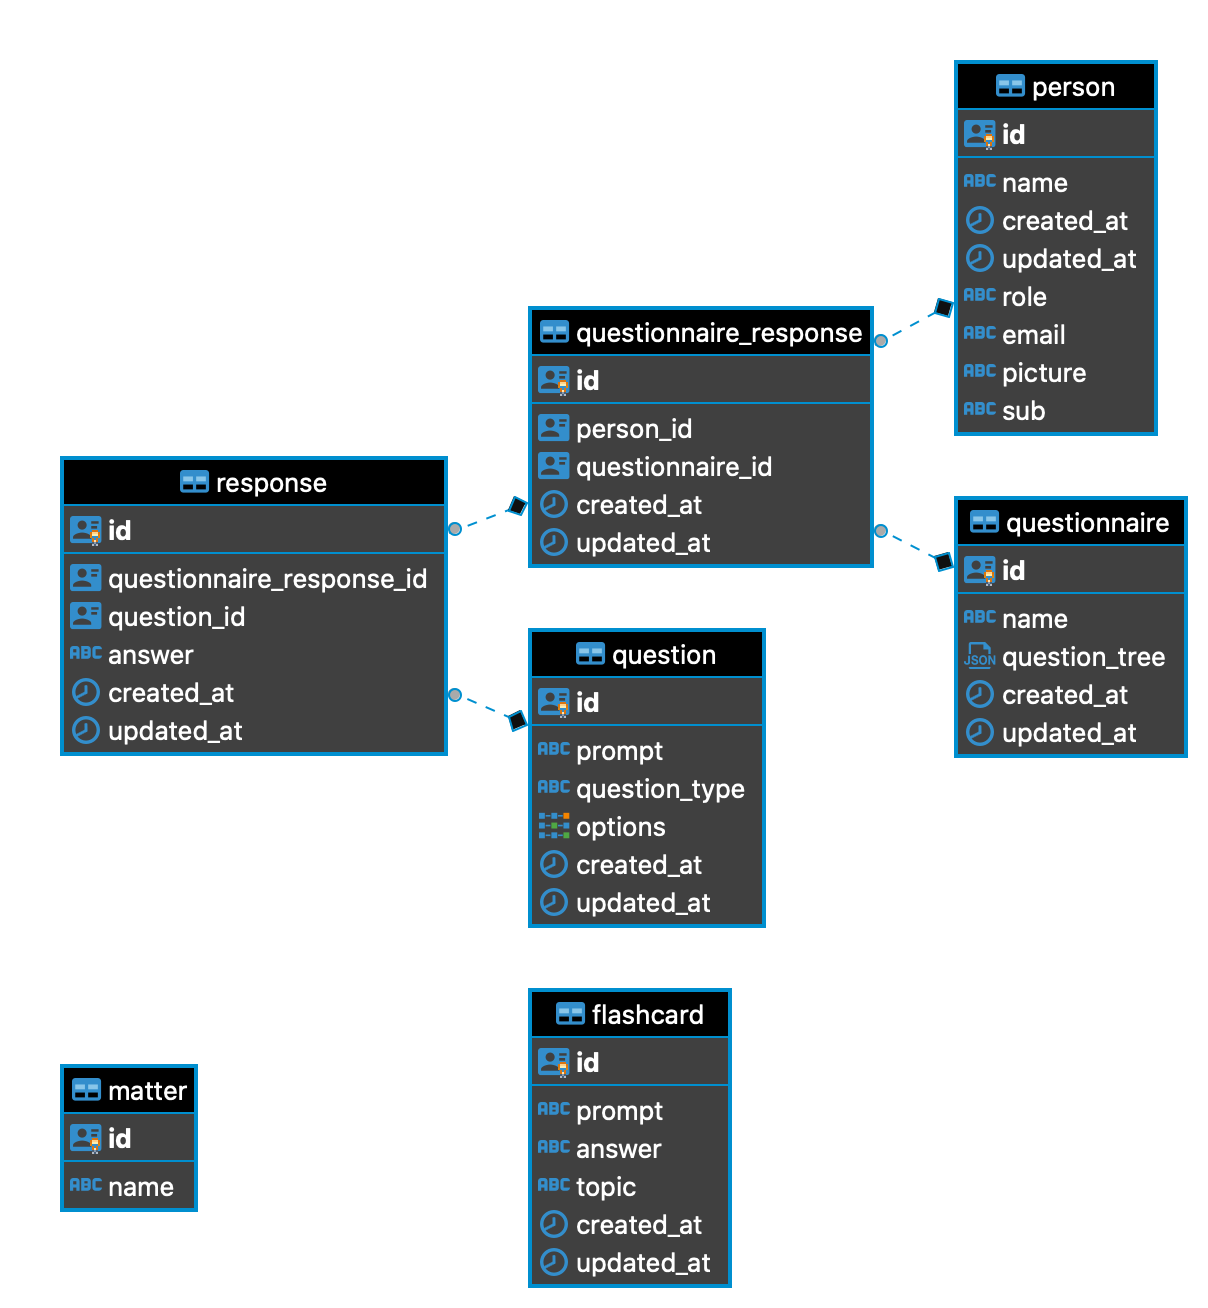
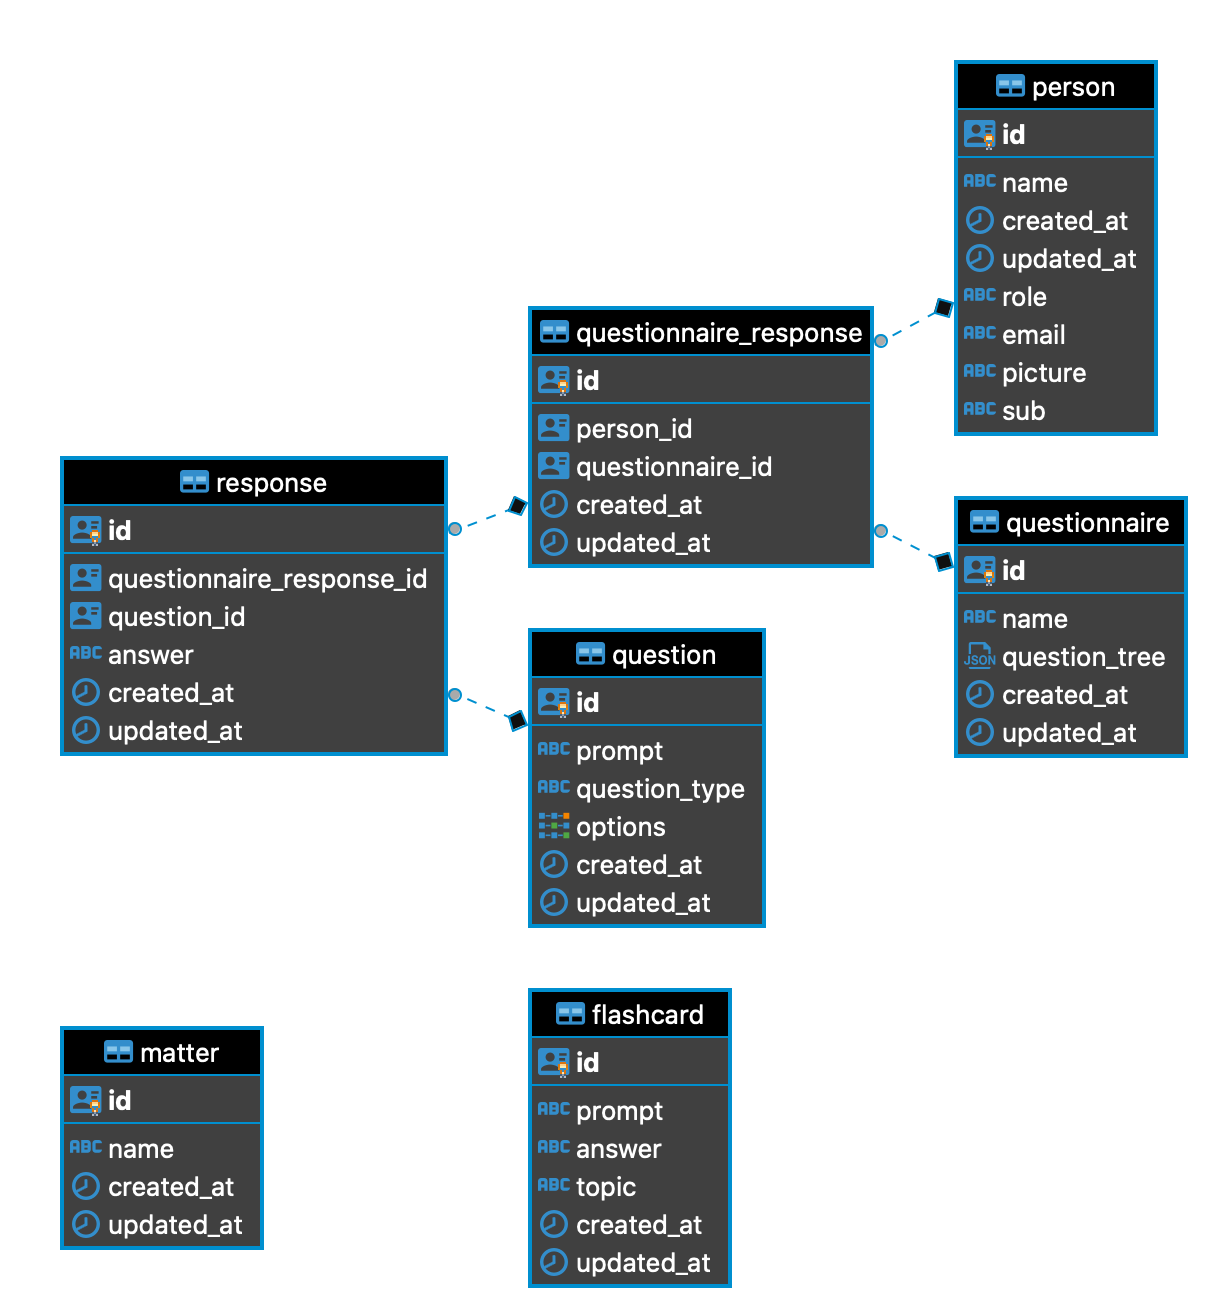
Update matters (#719)
and add created_at/updated_at

Changed region(s): [[0.0306, 0.7645, 0.245, 0.9786]]

diff --git a/README.md b/README.md
@@ -70,7 +70,7 @@ run all of the applications. For instance, if you just wanted to start the
 API server and the shell container it depends on, you could run:
 
 ```
-docker-compose up api
+docker-compose up postgres api
 ```
 
 if you just wanted a shell environment, you could run:
@@ -82,7 +82,7 @@ docker-compose exec -it shell /bin/bash
 and if you just wanted a just the interface environment, you could run:
 
 ```
-docker-compose up interface
+docker-compose up postgres interface
 ```
 
 This will start the `shell`, `postgres`, `api`, and `interface` containers.
